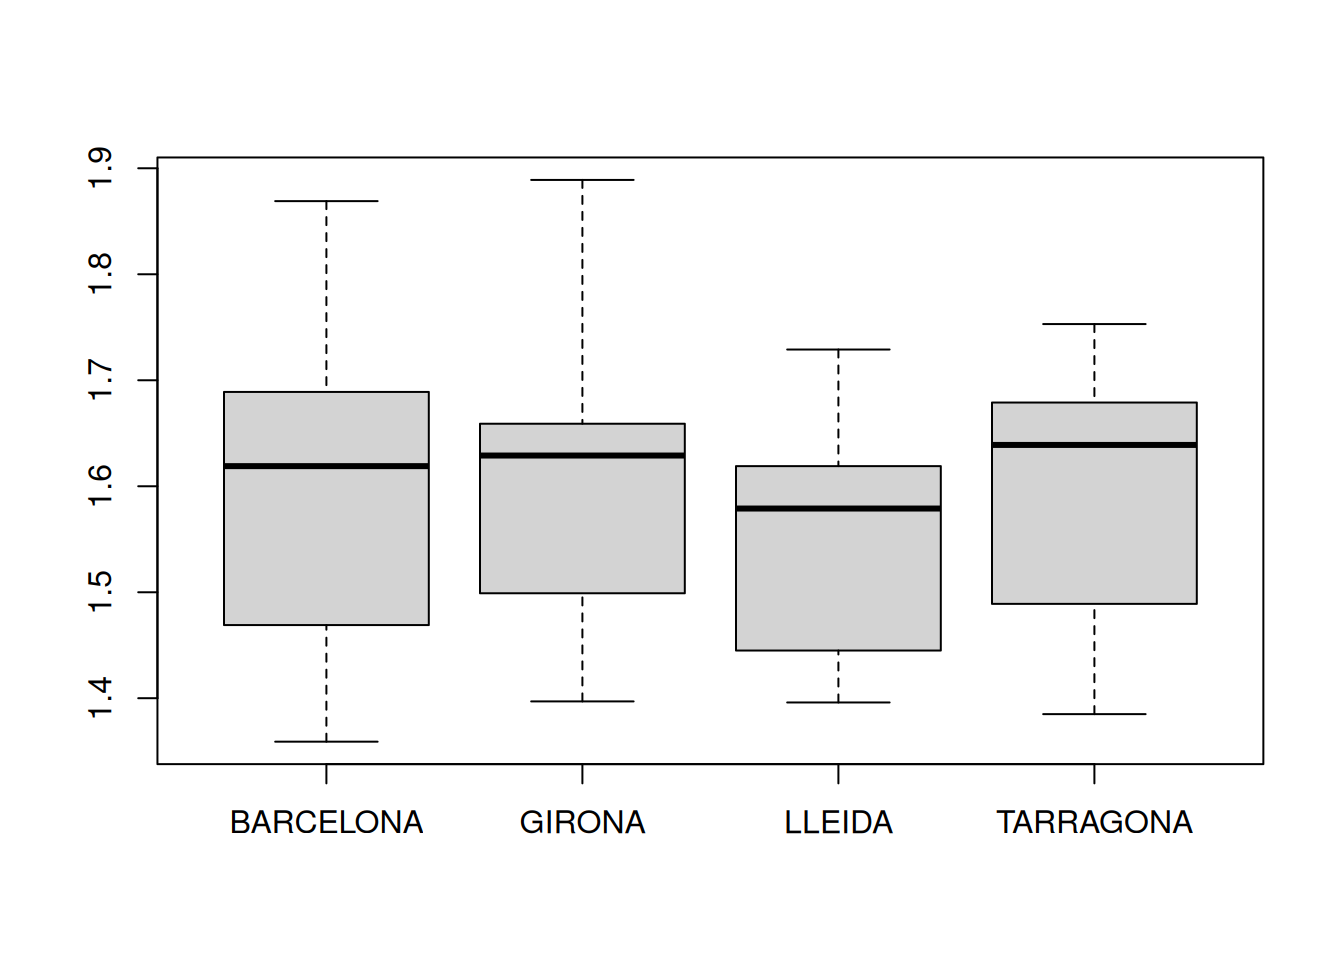
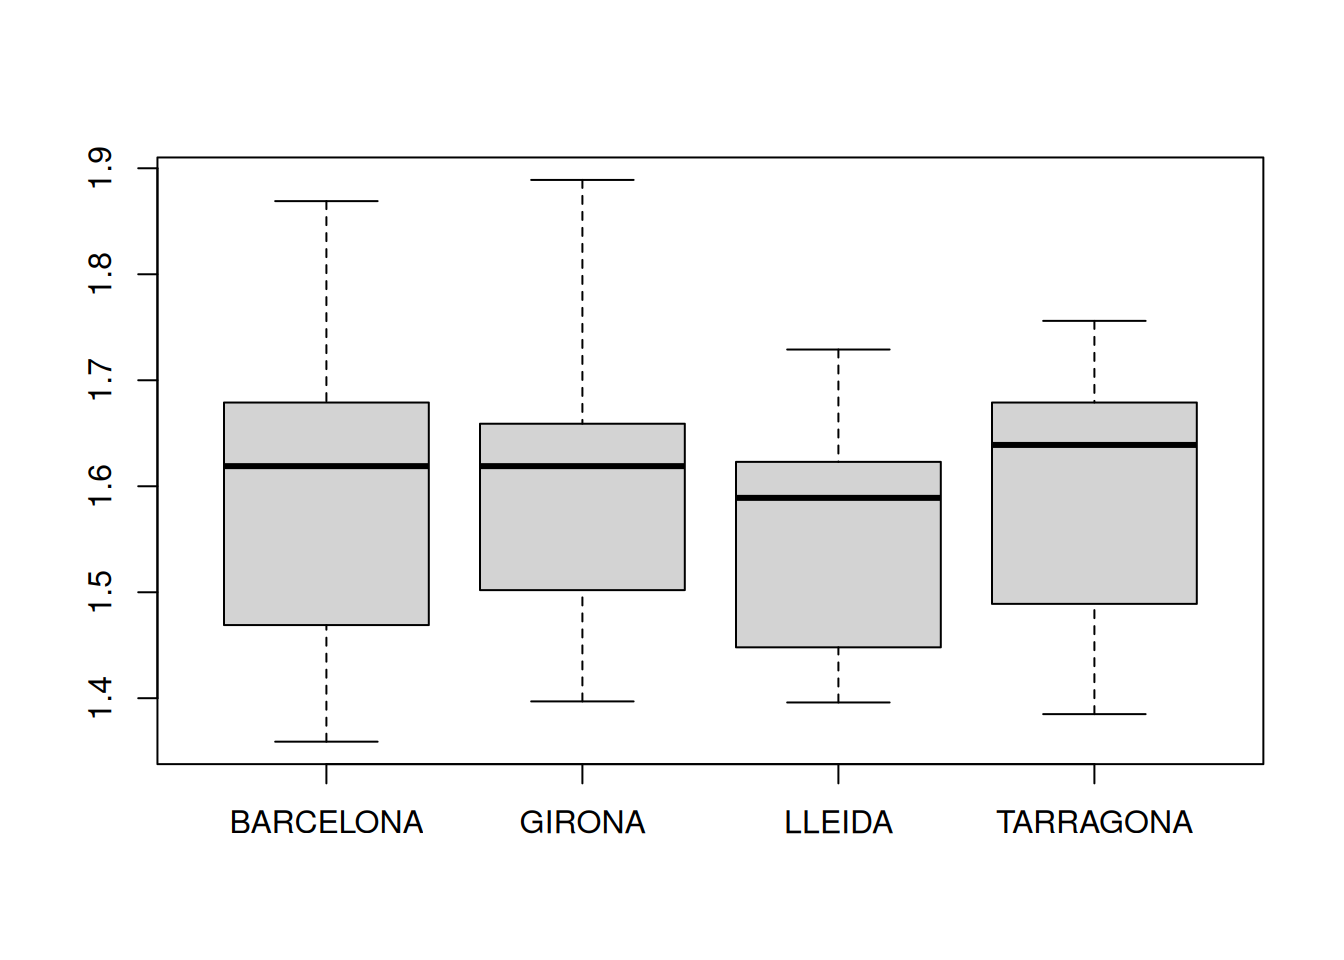
Built site for gh-pages

diff --git a/index.html b/index.html
@@ -187,11 +187,11 @@ window.Quarto = {
 </header>
 
 
-<p>Lorem ipsum dolor sit amet, consectetur adipiscing elit. Duis sagittis posuere ligula sit amet lacinia. Duis dignissim pellentesque magna, rhoncus congue sapien finibus mollis. Ut eu sem laoreet, vehicula ipsum in, convallis erat. Vestibulum magna sem, blandit pulvinar augue sit amet, auctor malesuada sapien. Nullam faucibus leo eget eros hendrerit, non laoreet ipsum lacinia. Curabitur cursus diam elit, non tempus ante volutpat a. Quisque hendrerit blandit purus non fringilla. Integer sit amet elit viverra ante dapibus semper. Vestibulum viverra rutrum enim, at luctus enim posuere eu. Orci varius natoque penatibus et magnis dis parturient montes, nascetur ridiculus mus.</p>
+<p>Ut ut condimentum augue, nec eleifend nisl. Sed facilisis egestas odio ac pretium. Pellentesque consequat magna sed venenatis sagittis. Vivamus feugiat lobortis magna vitae accumsan. Pellentesque euismod malesuada hendrerit. Ut non mauris non arcu condimentum sodales vitae vitae dolor. Nullam dapibus, velit eget lacinia rutrum, ipsum justo malesuada odio, et lobortis sapien magna vel lacus. Nulla purus neque, hendrerit non malesuada eget, mattis vel erat. Suspendisse potenti.</p>
 <hr>
 <div id="listing-notes" class="quarto-listing quarto-listing-container-default">
 <div class="list quarto-listing-default">
-<div class="quarto-post image-right" data-index="0" data-listing-date-sort="1707609600000" data-listing-file-modified-sort="1739852313624" data-listing-date-modified-sort="NaN" data-listing-reading-time-sort="2" data-listing-word-count-sort="312">
+<div class="quarto-post image-right" data-index="0" data-listing-date-sort="1707609600000" data-listing-file-modified-sort="1739938727031" data-listing-date-modified-sort="NaN" data-listing-reading-time-sort="2" data-listing-word-count-sort="312">
 <div class="body">
 <h3 class="no-anchor listing-title">
 <a href="./notes/ca/geoportal_api/index.html" class="no-external">Preus a les gasolineres d’Espanya</a>

diff --git a/notes/en/a/index.html b/notes/en/a/index.html
@@ -213,10 +213,10 @@ pre > code.sourceCode > span > a:first-child::before { text-decoration: underlin
 <pre><code># A tibble: 4 × 5
   provincia     n  mean median    sd
   &lt;chr&gt;     &lt;int&gt; &lt;dbl&gt;  &lt;dbl&gt; &lt;dbl&gt;
-1 BARCELONA   806  1.58   1.62 0.112
-2 TARRAGONA   224  1.59   1.64 0.11 
-3 GIRONA      268  1.59   1.63 0.09 
-4 LLEIDA      185  1.54   1.58 0.099</code></pre>
+1 BARCELONA   801  1.58   1.62 0.111
+2 TARRAGONA   223  1.59   1.64 0.108
+3 GIRONA      265  1.58   1.62 0.088
+4 LLEIDA      183  1.54   1.59 0.1  </code></pre>
 </div>
 </div>
 <p>We are interest in historic prices from a certain province, for instance Cadiz whose code is 11. Considering daily observations for all Cadiz gas stations, a horizon of one year seems reasonable.</p>
